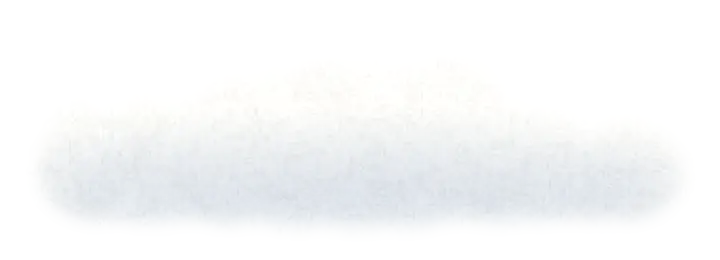
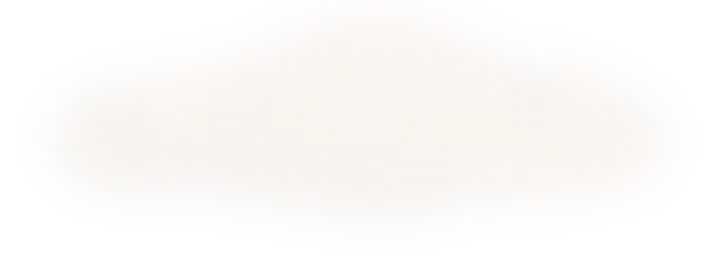
Revert "Home sky v2: clearly a painted daytime sky"
This reverts commit 3a85dd96b37bdbddbb7e9d309c1b7d3a49503902.

Changed region(s): [[0.0917, 0.6462, 0.9167, 0.8308]]

diff --git a/site/assets/css/home.css b/site/assets/css/home.css
@@ -243,7 +243,7 @@ body.home .zh-exit {
   height: var(--zh-h);
   overflow: hidden;
   container-type: inline-size;
-  background: #9cc0dc;
+  background: #ece4da;
   isolation: isolate;
 }
 @supports (height: 100lvh) { .home-sky { --zh-h: 100lvh; } }
@@ -283,17 +283,17 @@ body.home .zh-exit {
 }
 .home-sky-cloud {
   position: absolute; display: block; max-width: none; height: auto;
-  opacity: .95;
-  animation: home-sky-drift 60s ease-in-out infinite alternate;
+  opacity: .85;
+  animation: home-sky-drift 90s ease-in-out infinite alternate;
   will-change: transform;
 }
-.home-sky-cloud--1 { width: clamp(300px, 34vw, 640px); top: 4%;  right: 2%;  animation-duration: 64s; }
-.home-sky-cloud--2 { width: clamp(220px, 24vw, 480px); top: 24%; left: 4%;  animation-duration: 52s; animation-delay: -20s; animation-direction: alternate-reverse; }
-.home-sky-cloud--3 { width: clamp(220px, 22vw, 440px); top: 46%; right: 30%; animation-duration: 76s; animation-delay: -40s; opacity: .85; }
-.home-sky-cloud--4 { width: clamp(160px, 16vw, 320px); top: 0;   left: 34%; animation-duration: 58s; animation-delay: -10s; animation-direction: alternate-reverse; opacity: .9; }
+.home-sky-cloud--1 { width: clamp(300px, 38vw, 720px); top: 6%;  right: -6%; animation-duration: 110s; }
+.home-sky-cloud--2 { width: clamp(220px, 26vw, 520px); top: 30%; left: -4%;  animation-duration: 85s; animation-delay: -30s; opacity: .7; }
+.home-sky-cloud--3 { width: clamp(240px, 28vw, 560px); top: 52%; right: 18%; animation-duration: 130s; animation-delay: -60s; opacity: .55; }
+.home-sky-cloud--4 { width: clamp(160px, 18vw, 360px); top: 2%;  left: 22%; animation-duration: 100s; animation-delay: -15s; opacity: .6; }
 @keyframes home-sky-drift {
-  from { transform: translate3d(-9vw, 0, 0); }
-  to   { transform: translate3d(9vw, 0, 0); }
+  from { transform: translate3d(-4vw, 0, 0); }
+  to   { transform: translate3d(4vw, 0, 0); }
 }
 
 .home-sky-copy {
@@ -303,18 +303,12 @@ body.home .zh-exit {
   transform: translate3d(0, calc(-50% + var(--sky-p) * 22vh), 0);
   opacity: calc(1 - var(--sky-p) * 1.2);
 }
-.home-sky-copy::before {
-  content: ""; position: absolute; z-index: -1; left: 50%; top: 50%;
-  width: min(680px, 110vw); height: 300px; transform: translate(-50%, -50%);
-  background: radial-gradient(closest-side, rgba(255,255,255,.72), rgba(255,255,255,.38) 55%, rgba(255,255,255,0));
-  pointer-events: none;
-}
 .home-sky-logo { width: clamp(150px, 20vw, 250px); height: auto; display: block; }
 .home-sky-line {
   margin: 0; font-family: "Kalameh", Tahoma, sans-serif;
   font-weight: 700; font-size: clamp(1.1rem, 2.2vw, 1.55rem); line-height: 1.7;
   color: #066163; text-align: center;
-  text-shadow: 0 0 18px rgba(255,255,255,.95), 0 0 4px rgba(255,255,255,.8);
+  text-shadow: 0 1px 14px rgba(250,247,241,.9);
 }
 
 .home-sky-hint {

diff --git a/tools/redesign/make_sky.py b/tools/redesign/make_sky.py
@@ -31,119 +31,78 @@ def vmask(h, a, b, invert=False):
     return m
 
 
-def grain(size, seed=0, k=1.0):
-    """Brush grain of the Zagros painting: high-pass of its cloud band, tiled to size (L, 128 = flat)."""
-    src = Image.open(SRC).convert('L').crop((0, 0, W, 300))
-    hp = ImageChops.subtract(src, src.filter(ImageFilter.GaussianBlur(10)), 1, 128)
-    rnd = random.Random(seed)
-    out = Image.new('L', size, 128)
-    for y in range(0, size[1], 260):
-        x0 = rnd.randint(0, 600)
-        tile = hp.crop((x0, 20, x0 + min(W - x0, size[0]), 280))
-        if rnd.random() < .5: tile = ImageOps.mirror(tile)
-        out.paste(tile.resize((size[0], 260)), (0, y))
-    if k != 1.0:
-        out = out.point(lambda v: max(0, min(255, int(128 + (v - 128) * k))))
-    return out
-
-
-def add_grain(img, g, amount):
-    """img + amount * (grain - 128), per channel."""
-    off = g.point(lambda v: max(0, min(255, int(128 + (v - 128) * amount))))
-    return Image.merge('RGB', [ImageChops.add(c, off, 1.0, -128) for c in img.split()])
-
-
-def vgrad(stops, h, w=W):
-    """Vertical colour gradient from [(row, (r,g,b)), ...]."""
-    col = Image.new('RGB', (1, h))
-    px = col.load()
-    for y in range(h):
-        for i in range(len(stops) - 1):
-            (y0, c0), (y1, c1) = stops[i], stops[i + 1]
-            if y0 <= y <= y1:
-                t = (y - y0) / float(max(1, y1 - y0)); t = t * t * (3 - 2 * t)
-                px[0, y] = tuple(int(round(c0[j] + (c1[j] - c0[j]) * t)) for j in range(3))
-                break
-    return col.resize((w, h))
-
-
 def sky():
     src = Image.open(SRC).convert('RGB')
     band = src.crop((0, 0, W, 260))                    # clouds above the mountain peak (~row 320)
-    # haze band: the painting's own top clouds mirrored, so row 1079 == painting row 0 (seamless)
-    haze = Image.new('RGB', (W, H))
-    haze.paste(ImageOps.mirror(band).resize((W, 420)), (0, H - 590))
-    lay = haze.copy(); lay.paste(ImageOps.flip(band), (0, H - 260))
-    haze = Image.composite(lay, haze, vmask(H, H - 260, H - 180).resize((W, H)))
 
-    # daytime blue: deeper soft blue at the top, lightening into the painting's warm haze
-    blue = vgrad([(0, (112, 160, 202)), (300, (146, 186, 218)), (600, (190, 212, 228)),
-                  (820, (222, 222, 218)), (H - 1, (232, 224, 216))], H)
-    blue = add_grain(blue, grain((W, H), 3), 0.55)
+    def grown(img, k, x_shift=0):
+        """Enlarge a cloud band (nearer clouds higher up), keep the brush grain crisp."""
+        w2 = int(W * k)
+        big = img.resize((w2, int(img.height * k)), Image.LANCZOS)
+        big = big.filter(ImageFilter.UnsharpMask(radius=2, percent=60, threshold=1))
+        x0 = (w2 - W) // 2 + x_shift
+        return big.crop((x0, 0, x0 + W, big.height))
 
-    # soft sun glow, upper left (light falls from the left in the Zagros painting)
+    # bottom -> top; each band cross-fades into the one below it
+    layers = [
+        (ImageOps.flip(band), H - 260),                               # A: row 1079 == painting row 0
+        (grown(ImageOps.mirror(band), 1.15, 90), H - 260 - 230),     # B
+        (grown(ImageOps.flip(ImageOps.mirror(band)), 1.3, -160), 330),  # C
+        (grown(band, 1.6, 120), 0),                                   # D
+    ]
+    out = Image.new('RGB', (W, H))
+    # paint top-down so lower bands overlap (and win over) the ones above
+    for img, y in reversed(layers):
+        lay = out.copy()
+        lay.paste(img, (0, y))
+        out = Image.composite(lay, out, vmask(H, y, y + 70).resize((W, H))) if y else lay
+
+    # daylight lift toward the top (keeps the bottom 300 rows untouched)
+    light = Image.new('RGB', (W, H), (244, 246, 242))
+    top = vmask(H, 0, H - 300, invert=True).point(lambda v: int(v * 0.30)).resize((W, H))
+    out = Image.composite(light, out, top)
+    # soft warm sun-glow behind the logo area
     glow = Image.new('L', (W, H), 0)
-    g = Image.new('L', (900, 760), 0)
+    g = Image.new('L', (900, 520), 0)
     gp = g.load()
-    for y in range(0, 760):
-        for x in range(0, 900):
-            d = ((x - 450) / 450.0) ** 2 + ((y - 380) / 380.0) ** 2
-            gp[x, y] = int(max(0.0, 1 - d) ** 2.4 * 225)
-    glow.paste(g, (40, -300))
-    blue = Image.composite(Image.new('RGB', (W, H), (255, 252, 238)), blue, glow)
-
-    # big painted clouds baked into the backdrop (the CSS layer adds smaller drifting ones)
-    for seed, (w, h), (x, y) in [(41, (1100, 380), (980, 80)), (52, (900, 320), (-160, 330)),
-                                 (63, (760, 260), (700, 520)), (74, (620, 220), (1500, 420))]:
-        c = cloud(seed, (w, h))
-        blue.paste(c, (x, y), c)
-
-    # hand off to the painting's haze over the lower third; last 120 rows are 100% painting
-    return Image.composite(haze, blue, vmask(H, H - 560, H - 60).resize((W, H)))
+    for y in range(520):
+        for x in range(900):
+            d = ((x - 450) / 450.0) ** 2 + ((y - 260) / 260.0) ** 2
+            gp[x, y] = int(max(0.0, 1 - d) ** 2 * 120)
+    glow.paste(g, (W // 2 - 450, 150))
+    out = Image.composite(Image.new('RGB', (W, H), (252, 249, 242)), out, glow)
+    return out
 
 
 def cloud(seed, size):
-    """A white painted cloud: lumpy lit top, cool-grey shaded base, Zagros brush grain, broken edges."""
-    from PIL import ImageDraw
+    """A soft painted cloud sprite: texture from the painting, alpha from a lumpy blob."""
     rnd = random.Random(seed)
     w, h = size
+    src = Image.open(SRC).convert('RGB')
+    x0 = rnd.randint(200, 1000)
+    tex = src.crop((x0, 10, x0 + 700, 210)).resize((w, h), Image.LANCZOS)
+    tex = Image.blend(tex, Image.new('RGB', (w, h), (253, 251, 246)), 0.55)
+    # painted underside: a faint warm-grey shade toward the base, lit top
+    shade = Image.new('RGB', (w, h), (214, 204, 192))
+    tex = Image.composite(shade, tex, vmask(h, int(h * 0.45), h).point(lambda v: v * 45 // 255).resize((w, h)))
+    alpha = Image.new('L', (w, h), 0)
     blobs = Image.new('L', (w, h), 0)
+    from PIL import ImageDraw
     d = ImageDraw.Draw(blobs)
-    base = h * 0.80
-    peak = rnd.uniform(0.38, 0.62)
     n = 9
-    tops = []
     for i in range(n):
-        f = i / (n - 1)
-        cx = w * (0.15 + 0.70 * f) + rnd.uniform(-0.025, 0.025) * w
-        hump = max(0.2, 1 - abs(f - peak) * 1.7)
-        r = h * (0.13 + 0.22 * hump) * rnd.uniform(0.88, 1.12)
-        cy = base - r * 0.75
-        d.ellipse((cx - r * 1.2, cy - r, cx + r * 1.2, cy + r), fill=255)
-        tops.append((cx, cy - r * 0.8, r))
-    for cx, ty, r in tops:                      # cauliflower bumps along the top edge
-        for _ in range(2):
-            rr = r * rnd.uniform(0.35, 0.55)
-            x = cx + rnd.uniform(-0.8, 0.8) * r
-            y = max(rr + 4, ty + rnd.uniform(0, 0.4) * r)
-            d.ellipse((x - rr, y - rr, x + rr, y + rr), fill=255)
-    d.rounded_rectangle((int(w * 0.10), int(base - h * 0.12), int(w * 0.90), int(base + h * 0.04)), radius=int(h * 0.08), fill=255)
-    alpha = blobs.filter(ImageFilter.GaussianBlur(h * 0.03))
-    inner = blobs.filter(ImageFilter.GaussianBlur(h * 0.12))
-    shade = Image.new('L', (w, h))
-    sp = shade.load(); ip = inner.load()
-    for y in range(h):
-        t = min(1.0, max(0.0, (y - h * 0.40) / (h * 0.42)))
-        for x in range(w):
-            sp[x, y] = int(255 * t * 0.9 * (ip[x, y] / 255.0))
-    lit = Image.new('RGB', (w, h), (255, 254, 249))
-    under = Image.new('RGB', (w, h), (196, 207, 222))
-    rgb = Image.composite(under, lit, shade)
-    rgb = add_grain(rgb, grain((w, h), seed, 1.6), 2.2)
-    edge = grain((w, h), seed + 1, 2.6).filter(ImageFilter.GaussianBlur(1.2))
-    alpha = ImageChops.multiply(alpha, edge.point(lambda v: max(0, min(255, 225 + (v - 128) * 3))))
-    rgb.putalpha(alpha)
-    return rgb
+        cx = int(w * (0.18 + 0.64 * i / (n - 1)) + rnd.randint(-20, 20))
+        r = int(h * (0.20 + 0.22 * (1 - abs(i - (n - 1) / 2) / ((n - 1) / 2))) * rnd.uniform(0.85, 1.15))
+        cy = int(h * 0.62 - r * 0.45)
+        d.ellipse((cx - r * 1.3, cy - r, cx + r * 1.3, cy + r), fill=255)
+    d.rectangle((int(w * 0.16), int(h * 0.55), int(w * 0.84), int(h * 0.72)), fill=255)
+    blobs = blobs.filter(ImageFilter.GaussianBlur(h * 0.09))
+    # brushy edge: modulate by the painting's own luminance texture
+    lum = ImageOps.autocontrast(tex.convert('L'), cutoff=2).filter(ImageFilter.GaussianBlur(2))
+    alpha = ImageChops.multiply(blobs, lum.point(lambda v: 170 + v * 85 // 255))
+    alpha = alpha.point(lambda v: min(255, int(v * 0.8)))
+    tex.putalpha(alpha)
+    return tex
 
 
 if __name__ == '__main__':
